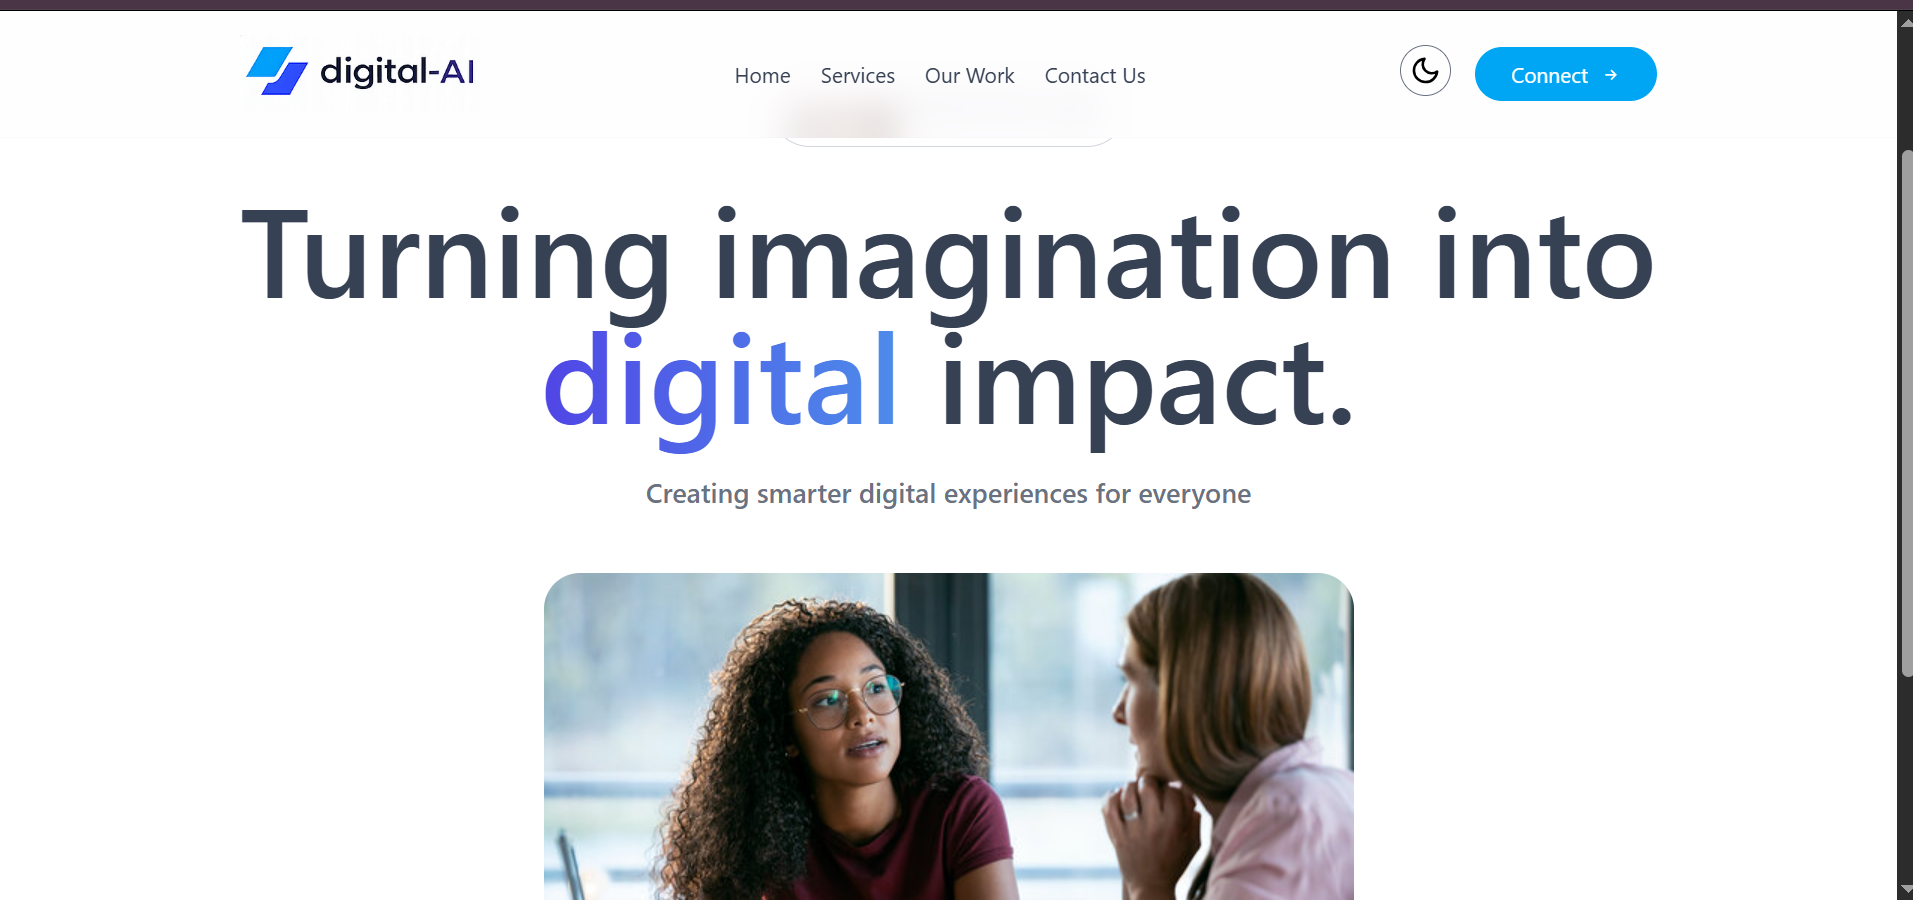
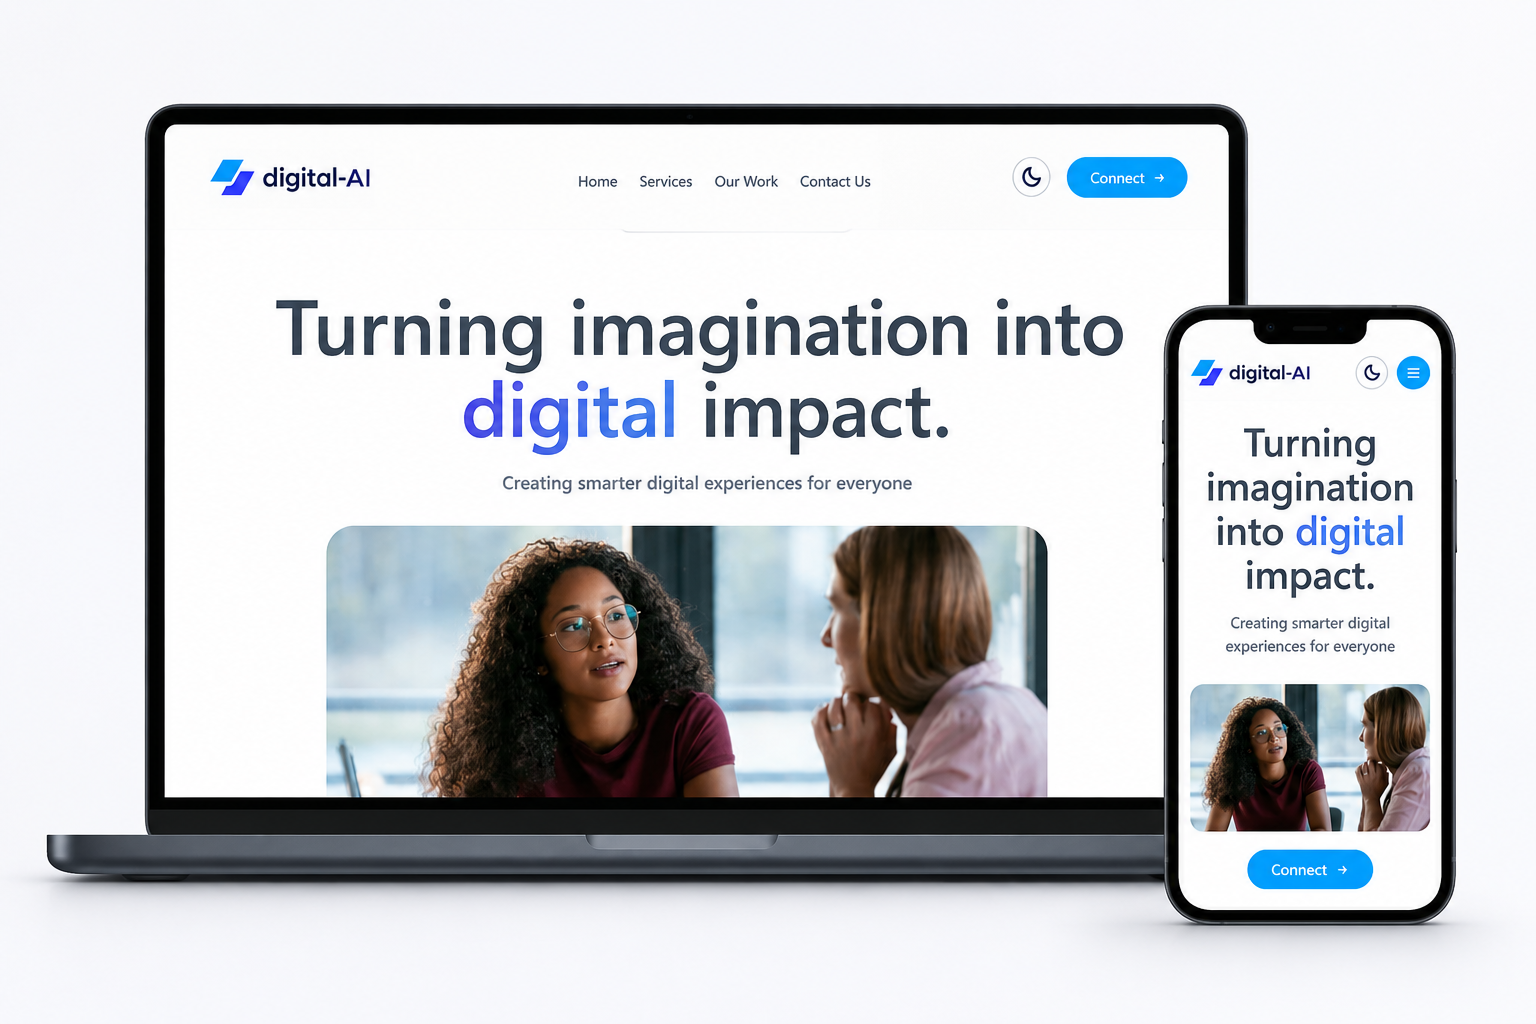
made the project section

diff --git a/src/components/sections/Projects.jsx b/src/components/sections/Projects.jsx
@@ -1,0 +1,145 @@
+import React, { useState, useRef } from "react"
+import { projects, categories } from "../../data/Project"
+import { Briefcase, Sparkles, Target, Globe, Palette, ChevronLeft, ChevronRight } from "lucide-react"
+import ProjectCard from "../ui/ProjectCard"
+import FadeIn from "../animations/FadeIn"
+
+export default function Projects() {
+    const [activeCategory, setActiveCategory] = useState('All');
+    const [currentIndex, setCurrentIndex] = useState(0);
+    const scrollContainerRef = useRef(null);
+
+    const filteredProjects = activeCategory === 'All'
+    ? projects
+    : projects.filter(project => project.category === activeCategory);
+
+    const handleCategoryChange = (category)=> {
+        setActiveCategory(category);
+        setCurrentIndex(0);
+        if(scrollContainerRef.current){
+            scrollContainerRef.current.scrollTo({left: 0, behavior: "smooth"})
+        }
+    };
+    const scrollToIndex = (index)=> {
+        setCurrentIndex(index);
+        if(scrollContainerRef.current){
+            const container = scrollContainerRef.current;
+            const cardWidth = container.offsetWidth / 3;
+            container.scrollTo({
+                left: cardWidth * index,
+                behavior: "smooth"
+            });
+        }
+    };
+
+    const nextSLide = ()=> {
+        const maxIndex = Math.max(0, filteredProjects.length -3);
+        const newIndex = Math.min(currentIndex + 1, maxIndex);
+        scrollToIndex(newIndex);
+    };
+    const prevSLide = ()=> {
+        const newIndex = Math.max(currentIndex - 1, 0);
+        scrollToIndex(newIndex);
+    };
+
+    const categoryIcons = {
+        'All' : Target,
+        'Web Apps': Globe,
+        'UI components': Palette,
+    }
+  return (
+  <section id="Projects" className="relative py-20 bg-black overflow-hidden">
+    <div className="absolute inset-0 overflow-hidden">
+        <div className="absolute top-1/3 right-0 w-96 h-96 bg-primary/20 opacity-20 rounded-full blur-3xl"/>
+        <div className="absolute bottom-1/3 left-0 w-96 h-96 bg-primary/20 opacity-20 rounded-full blur-3xl"/>
+        <div className="absolute top-1/2 right-1/3 w-96 h-96 bg-primary/20 opacity-20 rounded-full blur-3xl"/>
+    </div>
+    <div className="relative z-10 max-w-7xl mx-auto px-4 sm:px-6 lg:px-8">
+        <FadeIn delay={0}>
+            <div className="text-center mb-12">
+                <div className="inline-flex items-center gap-2 px-4 py-2 bg-primary/10 border border-primary/30 rounded-full mb-6">
+                    <Briefcase className="w-4 h-4 text-primary"/>
+                    <span className="text-sm text-primary font-medium">My work</span>
+                </div>
+                <h2 className="text-4xl lg:text-5xl font-normal text-white mb-4">Featured Projects</h2>
+                <p className="text-lg text-white/60 max-w-2xl mx-auto">Showcasing my best work and achivements</p>
+            </div>
+        </FadeIn>
+        {/* Category Filter  */}
+        <FadeIn delay={100}>
+            <div className="flex flex-wrap justify-center gap-3 mb-16">
+                {categories.map((category)=>(
+                    <button key={category}
+                    onClick={()=> handleCategoryChange(category)}
+                    className={`group relative px-6 py-3 rounded-full font-medium transition-all duration-300 ${activeCategory === category 
+                        ? 'text-white'
+                        : 'text-white/60 hover:text-white'
+                    }`}>
+                        <div className={`absolute inset-0 rounded-full transition-all duration-300 ${activeCategory === category
+                            ? 'bg-primary/10 opacity-100'
+                            : 'bg-white/5 border border-white/10 group-hover:bg-white/10'
+                        }`}/>
+                        <div className="relative flex items-center gap-2">
+                            {React.createElement(categoryIcons[category], {className: 'w-4 h-4'})}
+                            <span className="text-sm">{category}</span>
+                        </div>
+                        {activeCategory === category && (
+                            <div className="absolute inset-0 rounded-full bg-primary blur-xl opacity-50 -z-10"/>
+                        )}
+                    </button>
+                ))}
+            </div>
+        </FadeIn>
+
+        <FadeIn delay={200}>
+            <div className="relative">
+                <div className="overflow-x-auto scroll-smooth snap-x snap-mandatory hide-scrollBar"
+                ref={scrollContainerRef}>
+                    <div className="flex gap-6 pb-4">
+                        {filteredProjects.map((project, index)=>(
+                            <div key={project.id} 
+                            className="w-full md:w-[calc(50%-12px)] lg:w-[calc(33.333%-16px)] shrink-0 snap-start">
+                                <ProjectCard project={project}/>
+                            </div>
+                        ))}
+                    </div>
+                </div>
+
+                {filteredProjects.length > 3 &&(
+                    <>
+                    <button onClick={prevSLide}
+                     className="flex absolute left-0 top-1/2 -translate-y-1/2 -translate-x-2 lg:-translate-x-4 items-center justify-center w-10 h-10 lg:w-12 lg:h-12 bg-white/10 backdrop-blur-sm border border-white/20 rounded-full hover:bg-white/20 transition-all duration-300 disabled:opacity-50 disabled:cursor-not-allowed z-10"
+                     disabled={currentIndex === 0}
+                     aria-label="Previous Projects">
+                        <ChevronLeft className="w-6 h-6 text-white"/>
+                    </button>
+
+                    <button onClick={nextSLide}
+                     className="flex absolute right-0 top-1/2 -translate-y-1/2 translate-x-2 lg:translate-x-2 items-center justify-center w-10 h-10 lg:w-12 lg:h-12 bg-white/10 backdrop-blur-sm border border-white/20 rounded-full hover:bg-white/20 transition-all duration-300 disabled:opacity-50 disabled:cursor-not-allowed z-10"
+                     disabled={currentIndex >= filteredProjects.length -3}
+                     aria-label="Next Projects">
+                        <ChevronRight className="w-6 h-6 text-white"/>
+                    </button>
+                    </>
+                )}
+
+                {filteredProjects.length > 3 && (
+                    <div className="flex items-center justify-center gap-2 mt-8">
+                        {Array.from({length: Math.max(0, filteredProjects.length -2)}).map((_, index)=>(
+                            <button key={index} 
+                            onClick={()=> scrollToIndex(index)}
+                            className={`transition-all duration-300 rounded-full ${index === currentIndex
+                                ? 'bg-primary w-6 h-2'
+                                : 'bg-white/30 w-2 h-2 hover:bg-white/50'
+                            }`}
+                            aria-label={`Go to slide ${index +1}`}/>
+
+                        ))}
+                    </div>
+                )}
+            </div>
+        </FadeIn>
+    </div>
+  </section>
+  )
+}

diff --git a/src/components/ui/ProjectCard.jsx b/src/components/ui/ProjectCard.jsx
@@ -1,6 +1,51 @@
-
-export default function ProjectCard() {
+import React from "react"
+import { ExternalLink, TrendingUp } from "lucide-react"
+import { FaGithub } from "react-icons/fa";
+export default function ProjectCard({project}) {
+  const {title, description, image, category, technologies,demoUrl, githubUrl} = project;
   return (
-    <div>ProjectCard</div>
+    <div className="group relative bg-white/5 border border-white/10 rounded-2xl overflow-hidden hover:border-primary/30 transition-all duration-300">
+      <div className="relative h-64 overflow-hidden">
+        <img src={image} alt={title} className="w-full h-full object-cover transition-transform duration-700 group-hover:scale-110"/>
+
+        <div className="absolute inset-0 bg-linear-to-t from-black via-black/60 to-transparent opacity-80 group-hover:opacity-90 transition-opacity duration-300"/>
+        <div className="absolute bottom-4 right-4 flex items-center gap-3">
+
+          {demoUrl && (
+            <a href={demoUrl} target="_blank" rel="no repper" title="view demo"
+            className="p-2.5 bg-white/10 backdrop-blur-md rounded-lg border border-white/20 hover:bg-primary/30 hover:border-primary/50 transition-all duration-300 hover:scale-110">
+              <ExternalLink className="w-4 h-4 text-white"/>
+            </a>
+          )}
+
+           {githubUrl && (
+            <a href={githubUrl} target="_blank" rel="no repper" title="view code"
+            className="p-2.5 bg-white/10 backdrop-blur-md rounded-lg border border-white/20 hover:bg-primary/30 hover:border-primary/50 transition-all duration-300 hover:scale-110">
+              <FaGithub className="w-4 h-4 text-white"/>
+            </a>
+          )}
+        </div>
+
+        <div className="absolute top-4 left-4">
+          <span className="px-3 py-1 text-xs font-medium text-white bg-black/40 backdrop-blur-sm border border-white/20 rounded-full">
+            {project.category}
+          </span>
+        </div>
+      </div>
+
+      <div className="p-6 space-y-4">
+        <div>
+          <h3 className="text-xl font-semibold text-white mb-2 group-hover:text-[#A8FF8D] transition-colors duration-300">{title}</h3>
+          <p className="text-white/60 text-sm leading-relaxed line-clamp-2">{description}</p>
+        </div>
+
+        <div className="flex flex-wrap gap-2">
+          {technologies.map((tech, index)=>(
+            <span key={index} className="px-3 py-1 text-sx font-medium text-primary bg-primary/10 border border-primary/20 rounded-lg hover:bg-primary/20 transition-colors duration-200 ">{tech}</span>
+          ))}
+        </div>
+
+      </div>
+    </div>
   )
 }

diff --git a/src/data/Project.js b/src/data/Project.js
@@ -3,37 +3,41 @@ export const projects = [
         id: 1,
         title: "Goal Tracker",
        description: "A collaborative Goal Tracker web application developed in a team environment to help users manage daily tasks and personal goals, featuring progress tracking, task organization, and a responsive user-friendly interface.",
-        image: "",
-        category: "Front-end",
+        image: "/images/GoalTrack.png",
+        category: "Web Apps",
         technologies: ["React", "MUI"],
-        Url: "",
+        demoUrl: "https://goal-tracker-dashboard.onrender.com/",
+        githubUrl: "https://github.com/rabianezami/goal-tracker-dashboard"
     },
     {
         id: 2,
         title: "World Explorer",
         description: "A responsive World Explorer web app built with Next.js and Tailwind CSS that allows users to discover countries, search and filter data, and view detailed information including population, capital, region, languages, and more using a REST API.",
-        image: "",
-        category: "Front-end",
+        image: "/images/CountryExplorer.png",
+        category: "Web Apps",
         technologies: ["React", "Next.js", "Tailwind"],
-        Url: "",
+        demoUrl: "https",
+        githubUrl: "https://github.com/Baharah-Rostami/world-explorer"
     },
      {
         id: 3,
         title: "E-commerce NexaShop",
         description: "Nexa Shop is a modern e-commerce web application built with React and Tailwind CSS, featuring responsive design, product listings, shopping cart functionality, smooth UI interactions, and a clean user experience for online shopping.",
-        image: "",
+        image: "/images/NexaShop.png",
         category: "Front-end",
         technologies: ["React", "Tailwind"],
-        Url: "",
+        demoUrl: "https://nexa-shop-rust.vercel.app/",
+        githubUrl: "https://github.com/Baharah-Rostami/NexaShop"
     },
      {
         id: 4,
         title: "Digital AI",
         description: "Nexa Shop is a modern e-commerce web application built with React and Tailwind CSS, featuring responsive design, product listings, shopping cart functionality, smooth UI interactions, and a clean user experience for online shopping.",
-        image: "",
+        image: "/images/Digital.png",
         category: "Front-end",
         technologies: ["React", "Tailwind"],
-        Url: "",
+        demoUrl: "https://digital-ai-xi.vercel.app/",
+        githubUrl: "https://github.com/Baharah-Rostami/Digital-AI"
     },
 ]
 export const categories = ["All", "Web Apps", "UI components"]

diff --git a/src/App.jsx b/src/App.jsx
@@ -1,7 +1,9 @@
 import Navbar from "./components/layout/Navbar"
 import About from "./components/sections/About"
 import Hero from "./components/sections/Hero"
+import Projects from "./components/sections/Projects"
 import Skills from "./components/sections/Skills"
+
 function App() {
   return (
     <>
@@ -11,6 +13,7 @@ function App() {
           <Hero />
           <About />
           <Skills/>
+          <Projects/>
         </main>
       </div>
     </>